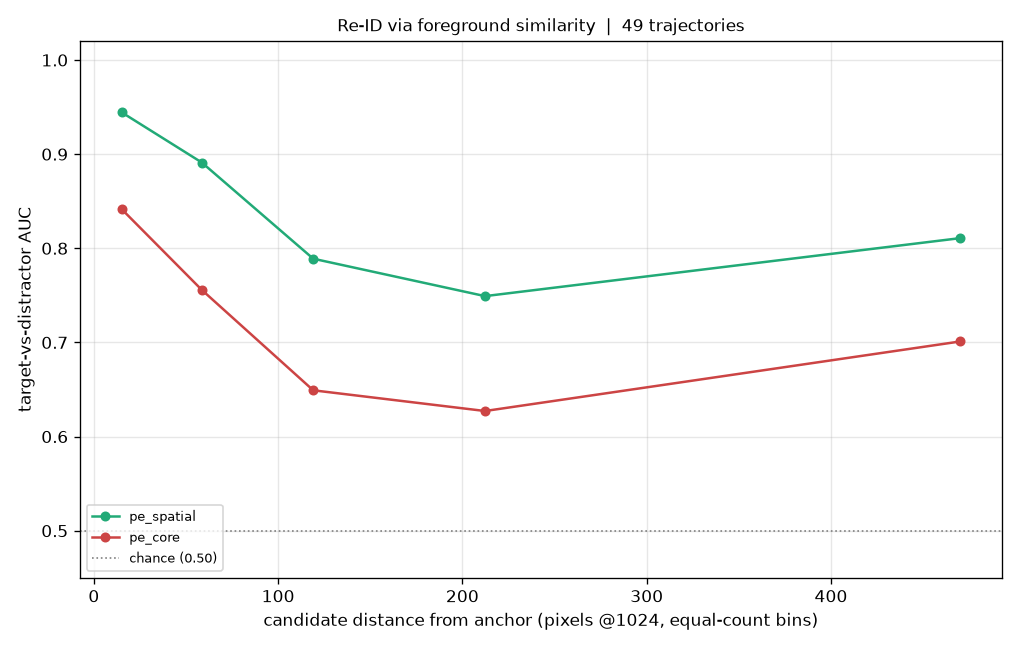
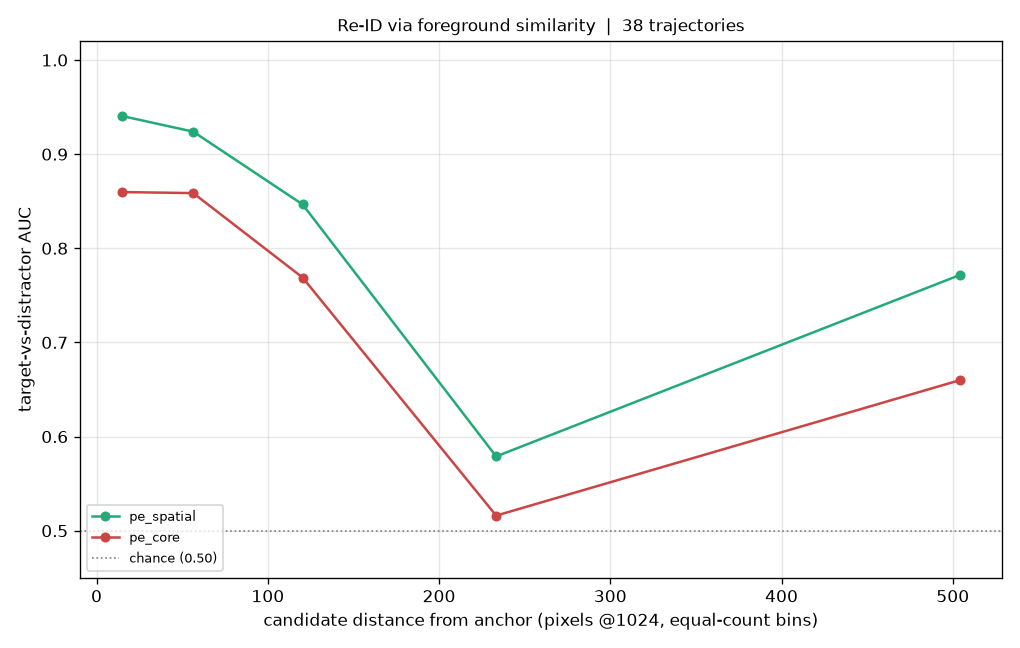
fixed distractors

diff --git a/pe_reid_longrange.py b/pe_reid_longrange.py
@@ -158,14 +158,18 @@ def to_pixel(box, width, height, scale):
     return cx * width * scale, cy * height * scale
 
 
-def nearest_distractors(target_center, clean_boxes, n_distractors, width, height, scale):
-    """The n_distractors clean-person boxes closest to the target this frame -- hard negatives that
-    share the target's local background and scale, so the comparison isolates appearance."""
+def clean_distractors(clean_boxes, n_distractors, min_norm_area, rng):
+    """Up to n_distractors clean people whose box is large enough (>= min_norm_area -- the same visible-area
+    floor the target satisfies), chosen at random rather than by proximity, so they are not biased toward
+    the target's local background."""
 
-    return sorted(clean_boxes, key=lambda box: distance(to_pixel(box, width, height, scale), target_center))[:n_distractors]
+    pool = [box for box in clean_boxes if box[2] * box[3] >= min_norm_area]
+    if len(pool) <= n_distractors:
+        return pool
+    return [pool[i] for i in rng.choice(len(pool), size=n_distractors, replace=False)]
 
 
-def evaluate_trajectory(sam, backbones, detection_data, trajectory, config):
+def evaluate_trajectory(sam, backbones, detection_data, trajectory, config, rng):
     """Yield (backbone, dists, fg_scores, fgbg_scores) per visible frame; index 0 is the target, rest distractors.
     fg = candidate foreground vs anchor foreground; fgbg = that minus candidate background vs anchor foreground."""
 
@@ -202,15 +206,14 @@ def evaluate_trajectory(sam, backbones, detection_data, trajectory, config):
     height, width = frames[0].shape[:2]
     px_scale = 1024.0 / max(width, height)
     anchor_center = to_pixel(boxes[0], width, height, px_scale)
+    min_norm_area = config.person_path.min_visible_area / (width * height * px_scale ** 2)   # target's visible-area floor, in normalized area
 
     for t in range(1, len(frames), config.stride):
-        target_center = to_pixel(boxes[t], width, height, px_scale)
-        distractors = nearest_distractors(target_center, clean_boxes.get(int(frame_indices[t]), []),
-                                          config.n_distractors, width, height, px_scale)
+        distractors = clean_distractors(clean_boxes.get(int(frame_indices[t]), []), config.n_distractors, min_norm_area, rng)
         if occlusions[t] > 0.5 or float(boxes[t][2]) <= 0 or not distractors:
             continue
 
-        # Candidates are the target (index 0) then its nearest distractors, each binned by its distance from the anchor.
+        # Candidates are the target (index 0) then its clean distractors, each binned by its distance from the anchor.
         candidate_boxes = [boxes[t]] + distractors
         candidate_dists = [distance(to_pixel(box, width, height, px_scale), anchor_center) for box in candidate_boxes]
         candidates = entity_tokens(sam, backbones, frames[t], candidate_boxes, floor, config.crop_size)
@@ -338,12 +341,13 @@ def run_reid(config: DictConfig):
     results_fg, results_fgbg, done = load_checkpoint(config.checkpoint)
     print(f"benchmarking {len(trajectories)} trajectories; resuming with {len(done)} done")
 
+    rng = np.random.RandomState(0)          # reproducible random distractor choice
     for completed, trajectory in enumerate(tqdm(trajectories, desc="re-id"), start=1):
         key = f"{trajectory[0]}_{trajectory[1]}_{trajectory[2]}"
         if key in done:
             continue
 
-        for name, dists, fg_scores, fgbg_scores in evaluate_trajectory(sam, backbones, detection_data, trajectory, config):
+        for name, dists, fg_scores, fgbg_scores in evaluate_trajectory(sam, backbones, detection_data, trajectory, config, rng):
             for index, (candidate_distance, fg, fgbg) in enumerate(zip(dists, fg_scores, fgbg_scores)):
                 label = 1 if index == 0 else 0               # index 0 is the target, the rest are distractors
                 results_fg[name].append((candidate_distance, label, fg))
